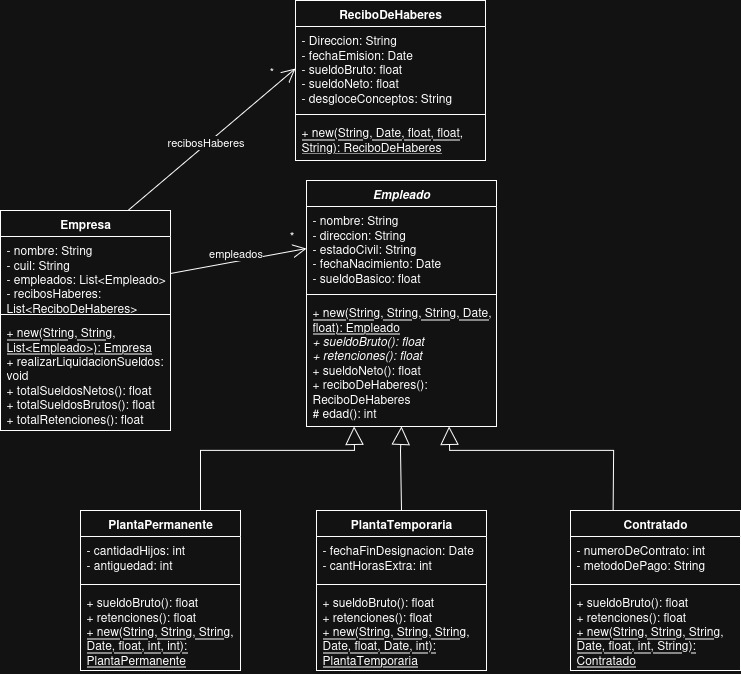
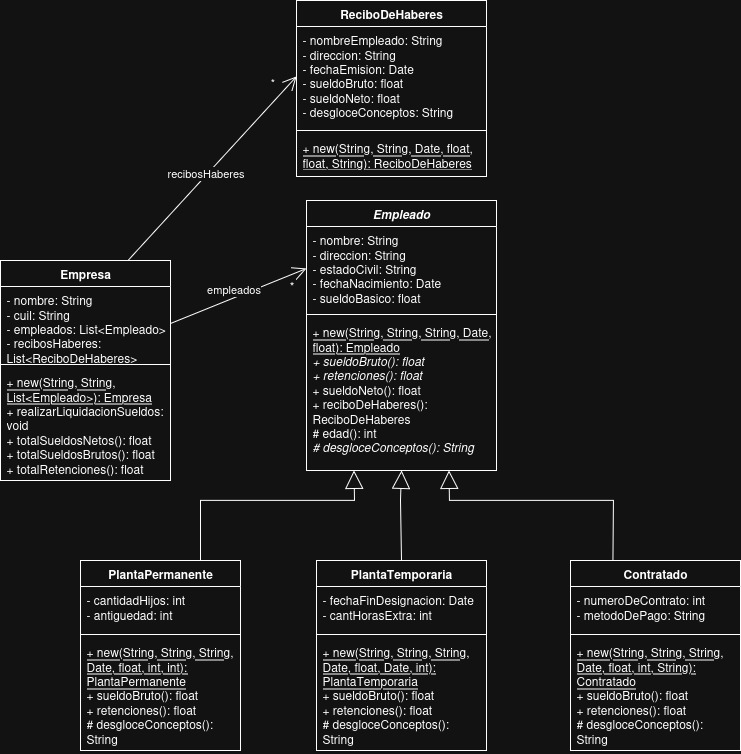
Todo lo relativo a ejercicio 1 ya implementado. Falta terminar la clase Contratado

diff --git a/tp2-UML/implementacion-en-Java/src/empresa/ReciboDeHaberes.java b/tp2-UML/implementacion-en-Java/src/empresa/ReciboDeHaberes.java
@@ -5,14 +5,16 @@ import java.util.Date;
 import empleado.*;
 
 public class ReciboDeHaberes {
+	private String nombreEmpleado;
 	private String direccion;
 	private Date fechaEmision;
 	private float sueldoBruto;
 	private float sueldoNeto;
 	private String desgloceConceptos;
 	
-	public ReciboDeHaberes(String direccion, Date fechaEmision, float sueldoBruto, float sueldoNeto, 
+	public ReciboDeHaberes(String nombreEmpleado, String direccion, Date fechaEmision, float sueldoBruto, float sueldoNeto, 
 			String desgloceConceptos) {
+		this.nombreEmpleado = nombreEmpleado;
 		this.direccion = direccion;
 		this.fechaEmision = fechaEmision;
 		this.sueldoBruto = sueldoBruto;

diff --git a/tp2-UML/implementacion-en-Java/src/empleado/Empleado.java b/tp2-UML/implementacion-en-Java/src/empleado/Empleado.java
@@ -29,7 +29,8 @@ abstract public class Empleado {
 	}
 	
 	public ReciboDeHaberes reciboDeHaberes() {
-		return new ReciboDeHaberes(direccion, new Date(), this.sueldoBruto(), this.sueldoNeto(), this.desgloceConceptos());
+		return new ReciboDeHaberes(nombre, direccion, new Date(), this.sueldoBruto(), this.sueldoNeto(), 
+				this.desgloceConceptos());
 	}
 	
 	protected int edad() { //según vi, hacerlo con Date puede ser propenso a errores, por lo que internamente se usa LocalDate

diff --git a/tp2-UML/implementacion-en-Java/src/empresa/Empresa.java b/tp2-UML/implementacion-en-Java/src/empresa/Empresa.java
@@ -19,9 +19,10 @@ public class Empresa {
 	}
 	
 	public void realizarLiquidacionSueldos() {
-		
+		for (Empleado empleado : empleados) {
+			recibosHaberes.addFirst(empleado.reciboDeHaberes());		
+		}
 	}
-	//TODO
 	
 	public float totalSueldosNetos() {
 		return empleados.stream().
